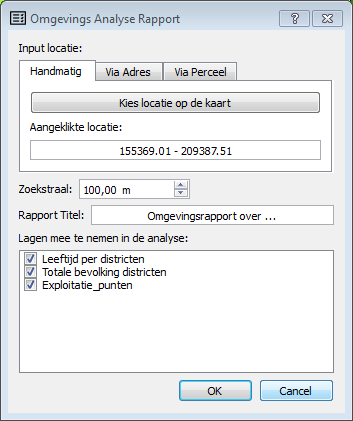
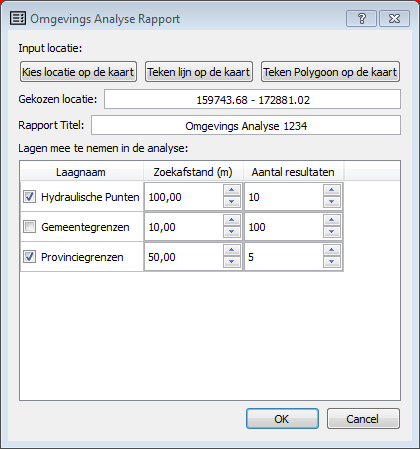
keep graphic visible, let user choose to select or not

Changed region(s): [[0.0, 0.0, 0.966, 0.9881], [0.779, 0.0, 1.0, 1.0], [0.9348, 0.4632, 0.966, 0.5558]]

diff --git a/OmgevingsAnalyseDlg.py b/OmgevingsAnalyseDlg.py
@@ -22,12 +22,12 @@
 """
 
 import os, utils, json, settings
-from threading import Timer
-from mapTool import mapTool, polyTool
+from mapTool import mapTool, polyTool, lineTool
 from qgis.core import *
 from ui_OmgevingsAnalyseDlg import Ui_OmgevingsAnalyseDlg
 from PyQt4 import QtGui, QtCore
 from rapportGenerator import rapportGenerator
+
 
 class OmgevingsAnalyseDlg(QtGui.QDialog):
     def __init__(self, parent=None, iface=None):
@@ -50,7 +50,6 @@ class OmgevingsAnalyseDlg(QtGui.QDialog):
         #props
         self.mapTool = None
         self.polyTool = None
-        self.s = None
         # data
         self.graphicsLayer = []
         self.mapLayers = []
@@ -73,15 +72,17 @@ class OmgevingsAnalyseDlg(QtGui.QDialog):
 
         # eventhandlers
         self.ui.manualLocationBtn.clicked.connect(self.manualLocationClicked)
+        self.ui.lineLocationBtn.clicked.connect(self.lineLocationClicked)
         self.ui.polyLocationBtn.clicked.connect(self.polyLocationClicked)
 
         self.iface.mapCanvas().layersChanged.connect(self.refreshLayers)
         self.accepted.connect(self.generateRapport)
+        self.rejected.connect(self._clearGraphicLayer)
 
         QgsProject.instance().readProject.connect( self.loadSettings )
         QgsProject.instance().writeProject.connect( self.saveSettings )
 
-    def _manualLocationCallback(self, point):
+    def _manualLocationCallback(self, marker, point):
         #set location an and location name
         xform = QgsCoordinateTransform( self.iface.mapCanvas().mapSettings().destinationCrs(), self.lam72)
 
@@ -91,7 +92,7 @@ class OmgevingsAnalyseDlg(QtGui.QDialog):
 
         self.ui.manualLocationTxt.setText(self.manualLocationName)
 
-        self.flashMarker(point)
+        self.flashMarker(marker)
 
         self.showNormal()
         self.activateWindow()
@@ -107,7 +108,23 @@ class OmgevingsAnalyseDlg(QtGui.QDialog):
 
         self.ui.manualLocationTxt.setText(self.manualLocationName)
 
-        self.iface.mapCanvas().scene().removeItem(rubber)
+        self.flashMarker(rubber)
+
+        self.showNormal()
+        self.activateWindow()
+        self.iface.mapCanvas().unsetMapTool(self.mapTool)
+
+    def _lineLocationCallback(self, rubber):
+        #get the location line
+        xform = QgsCoordinateTransform(self.iface.mapCanvas().mapSettings().destinationCrs(), self.lam72)
+
+        self.manualLoc_lam72 = rubber.asGeometry()
+        self.manualLoc_lam72.transform(xform)
+        self.manualLocationName = self.manualLoc_lam72.exportToWkt()
+
+        self.ui.manualLocationTxt.setText(self.manualLocationName)
+
+        self.flashMarker(rubber)
 
         self.showNormal()
         self.activateWindow()
@@ -152,7 +169,8 @@ class OmgevingsAnalyseDlg(QtGui.QDialog):
             count += 1
             if count > maxNum: break
 
-        lyr.setSelectedFeatures(ids)
+        if self.ui.selFeatsChk.isChecked():
+            lyr.setSelectedFeatures(ids)
 
     #events
     def refreshLayers(self):
@@ -199,6 +217,7 @@ class OmgevingsAnalyseDlg(QtGui.QDialog):
     def generateRapport(self):
         loc_lam72 = self.manualLoc_lam72
         title = self.manualLocationName
+        graphics = self.graphicsLayer
 
         if loc_lam72 is None: return
 
@@ -207,7 +226,7 @@ class OmgevingsAnalyseDlg(QtGui.QDialog):
                                                                if self.ui.layerTbl.item(n,0).checkState() ]
         lyrs = [ m for m in self.mapLayers if m.name() in checkedLayerNames ]
 
-        raport = rapportGenerator(self.iface, rapportTitle, title)
+        raport = rapportGenerator(self.iface, rapportTitle, title, graphics)
 
         for lyr in lyrs:
             radius = [self.ui.layerTbl.cellWidget(n, 1) for n in range(self.ui.layerTbl.rowCount() )
@@ -222,22 +241,29 @@ class OmgevingsAnalyseDlg(QtGui.QDialog):
             # find the intersecting records between loc and lyr and rec to raport
             self._findIntersectingRecords(loc, lyr, maxNum, radius, raport)
         raport.show()
+        self.graphicsLayer = []
 
     def manualLocationClicked(self):
+        self._clearGraphicLayer()
         self.mapTool = mapTool(self.iface, self._manualLocationCallback)
         self.iface.mapCanvas().setMapTool(self.mapTool)
         self.showMinimized()
 
     def polyLocationClicked(self):
+        self._clearGraphicLayer()
         self.mapTool = polyTool(self.iface, self._polyLocationCallback)
         self.iface.mapCanvas().setMapTool(self.mapTool)
         self.showMinimized()
 
-    def flashMarker(self, point, time=3):
-        """Add marker and remove it after time in sec"""
-        mkr = utils.addMarker(self.iface, point)
+    def lineLocationClicked(self):
+        self._clearGraphicLayer()
+        self.mapTool = lineTool(self.iface, self._lineLocationCallback)
+        self.iface.mapCanvas().setMapTool(self.mapTool)
+        self.showMinimized()
+
+    def flashMarker(self, mkr, time=5):
         self.graphicsLayer.append(mkr)
-        Timer(time, self._clearGraphicLayer, ()).start()
+        # Timer(time, self._clearGraphicLayer, ()).start()
 
     def loadSettings(self):
         self.s = settings.settings()

diff --git a/ui_OmgevingsAnalyseDlg.py b/ui_OmgevingsAnalyseDlg.py
@@ -2,7 +2,7 @@
 
 # Form implementation generated from reading ui file 'ui_OmgevingsAnalyseDlg.ui'
 #
-# Created: Wed Jun 08 14:45:13 2016
+# Created: Tue Oct 18 14:23:26 2016
 #      by: PyQt4 UI code generator 4.10.2
 #
 # WARNING! All changes made in this file will be lost!
@@ -26,7 +26,7 @@ except AttributeError:
 class Ui_OmgevingsAnalyseDlg(object):
     def setupUi(self, OmgevingsAnalyseDlg):
         OmgevingsAnalyseDlg.setObjectName(_fromUtf8("OmgevingsAnalyseDlg"))
-        OmgevingsAnalyseDlg.resize(422, 454)
+        OmgevingsAnalyseDlg.resize(454, 481)
         icon = QtGui.QIcon()
         icon.addPixmap(QtGui.QPixmap(_fromUtf8(":/plugins/OmgevingsAnalyse/img/icon.png")), QtGui.QIcon.Normal, QtGui.QIcon.Off)
         OmgevingsAnalyseDlg.setWindowIcon(icon)
@@ -40,6 +40,9 @@ class Ui_OmgevingsAnalyseDlg(object):
         self.manualLocationBtn = QtGui.QPushButton(OmgevingsAnalyseDlg)
         self.manualLocationBtn.setObjectName(_fromUtf8("manualLocationBtn"))
         self.horizontalLayout_4.addWidget(self.manualLocationBtn)
+        self.lineLocationBtn = QtGui.QPushButton(OmgevingsAnalyseDlg)
+        self.lineLocationBtn.setObjectName(_fromUtf8("lineLocationBtn"))
+        self.horizontalLayout_4.addWidget(self.lineLocationBtn)
         self.polyLocationBtn = QtGui.QPushButton(OmgevingsAnalyseDlg)
         self.polyLocationBtn.setObjectName(_fromUtf8("polyLocationBtn"))
         self.horizontalLayout_4.addWidget(self.polyLocationBtn)
@@ -65,6 +68,9 @@ class Ui_OmgevingsAnalyseDlg(object):
         self.rapportTitleTxt.setObjectName(_fromUtf8("rapportTitleTxt"))
         self.horizontalLayout_2.addWidget(self.rapportTitleTxt)
         self.verticalLayout.addLayout(self.horizontalLayout_2)
+        self.selFeatsChk = QtGui.QCheckBox(OmgevingsAnalyseDlg)
+        self.selFeatsChk.setObjectName(_fromUtf8("selFeatsChk"))
+        self.verticalLayout.addWidget(self.selFeatsChk)
         self.label = QtGui.QLabel(OmgevingsAnalyseDlg)
         self.label.setObjectName(_fromUtf8("label"))
         self.verticalLayout.addWidget(self.label)
@@ -96,11 +102,13 @@ class Ui_OmgevingsAnalyseDlg(object):
         OmgevingsAnalyseDlg.setWindowTitle(_translate("OmgevingsAnalyseDlg", "Omgevings Analyse Rapport", None))
         self.label_2.setText(_translate("OmgevingsAnalyseDlg", "Input locatie:", None))
         self.manualLocationBtn.setText(_translate("OmgevingsAnalyseDlg", "Kies locatie op de kaart", None))
+        self.lineLocationBtn.setText(_translate("OmgevingsAnalyseDlg", "Teken lijn op de kaart", None))
         self.polyLocationBtn.setText(_translate("OmgevingsAnalyseDlg", "Teken Polygoon op de kaart", None))
         self.label_5.setText(_translate("OmgevingsAnalyseDlg", "Gekozen locatie:", None))
         self.manualLocationTxt.setText(_translate("OmgevingsAnalyseDlg", "0 - 0", None))
         self.label_6.setText(_translate("OmgevingsAnalyseDlg", "Rapport Titel:", None))
         self.rapportTitleTxt.setText(_translate("OmgevingsAnalyseDlg", "Omgevingsrapport", None))
+        self.selFeatsChk.setText(_translate("OmgevingsAnalyseDlg", " Selecteer de gevonden features op kaart", None))
         self.label.setText(_translate("OmgevingsAnalyseDlg", "Lagen mee te nemen in de analyse:", None))
         item = self.layerTbl.horizontalHeaderItem(0)
         item.setText(_translate("OmgevingsAnalyseDlg", "Laagnaam", None))

diff --git a/mapTool.py b/mapTool.py
@@ -3,6 +3,7 @@ from PyQt4.QtCore import *
 from PyQt4.QtGui import *
 from qgis.core import *
 from qgis.gui import *
+from utils import addMarker
 
 class mapTool(QgsMapTool):
     def __init__(self, iface, callback):
@@ -13,7 +14,56 @@ class mapTool(QgsMapTool):
 
     def canvasReleaseEvent(self,e):
         point = self.toMapCoordinates(e.pos())
-        self.callback(point)
+        mkr = addMarker(self.iface, point)
+        self.callback(mkr, point)
+
+
+class lineTool(QgsMapTool):
+    def __init__(self, iface, callback):
+        QgsMapTool.__init__(self, iface.mapCanvas())
+        self.iface = iface
+        self.canvas = iface.mapCanvas()
+        self.cursor = QCursor(Qt.CrossCursor)
+        self.callback = callback
+
+        self.rubberBand = QgsRubberBand(self.canvas, False)
+        self.points = []
+        self.rubberBand.setColor(Qt.green)
+        self.rubberBand.setWidth(1.6)
+
+    def canvasMoveEvent(self, e):
+        if len(self.points) <= 1 or e.pos() is None: return
+
+        self.rubberBand.setToGeometry(QgsGeometry.fromPolyline( self.points + [self.toMapCoordinates(e.pos())] ), None)
+
+    def canvasReleaseEvent(self, event):
+        if event.button() == Qt.RightButton:
+            self.points.append(self.toMapCoordinates(event.pos()))
+            if len(self.points) <= 1: return
+
+            self.rubberBand.setToGeometry(QgsGeometry.fromPolyline( self.points ), None)
+            self.callback(self.rubberBand)
+            QgsMapTool.deactivate(self)
+        else:
+            self.points.append(self.toMapCoordinates(event.pos()))
+            if len(self.points) <= 1: return
+
+            self.rubberBand.setToGeometry(QgsGeometry.fromPolyline( self.points ), None)
+
+    def canvasDoubleClickEvent(self, event):
+        self.points.append(self.toMapCoordinates(event.pos()))
+        if len(self.points) <= 1: return
+
+        self.rubberBand.setToGeometry(QgsGeometry.fromPolyline( self.points ), None)
+        self.callback(self.rubberBand)
+        QgsMapTool.deactivate(self)
+
+    def activate(self):
+        QgsMapTool.activate(self)
+        self.canvas.setCursor(self.cursor)
+
+    def setCursor(self, cursor):
+        self.cursor = QCursor(cursor)
 
 
 class polyTool(QgsMapTool):
@@ -26,7 +76,7 @@ class polyTool(QgsMapTool):
 
         self.rubberBand = QgsRubberBand(self.canvas, False)
         self.points = []
-        self.rubberBand.setBorderColor(Qt.red)
+        self.rubberBand.setBorderColor(Qt.green)
         self.rubberBand.setWidth(1.6)
 
     def canvasMoveEvent(self, e):

diff --git a/rapportGenerator.py b/rapportGenerator.py
@@ -6,8 +6,9 @@ from PyQt4.QtGui import QDialog, QFileDialog
 from htmlInteraction import htmlInteraction, magnifyingGlass
 
 class rapportGenerator:
-    def __init__(self, iface, rapportName="", locationName=""):
+    def __init__(self, iface, rapportName="", locationName="", graphics=[]):
         self.iface = iface
+        self.graphics = graphics
         self.body = ET.Element("body")
         self.rapportName  = rapportName
         self.locationName = locationName
@@ -70,14 +71,16 @@ class rapportGenerator:
         result = dlg.exec_()
         if result:
             filename = QFileDialog.getSaveFileName(self.iface.mainWindow(),
-                                                   "Opslaan als", None, "WORD (*.DOC);;HTML (*.html)" )
+                                                "Opslaan als", None, "WORD (*.DOC);;HTML (*.html)" )
             if filename: self.save(filename)
+
+        for graphic in self.graphics:
+            self.iface.mapCanvas().scene().removeItem(graphic)
 
     def toString(self):
         return ET.tostring(self.body)
 
     def save(self, path):
-        #TODO : remove buttons
         tree = ET.ElementTree(self.body)
         tree.write( path )
 

diff --git a/utils.py b/utils.py
@@ -1,6 +1,6 @@
 #several miscellaneous reusable fucntions
 from qgis.core import QgsExpression
-from qgis.gui import QgsVertexMarker
+from qgis.gui import QgsVertexMarker, QgsRubberBand
 from PyQt4.QtGui import QColor
 
 def feat2dict( feature ):
@@ -31,3 +31,4 @@ def addMarker(iface, pnt, clr=QColor(0, 255, 0), ico=QgsVertexMarker.ICON_BOX ):
     m.setIconType(ico)
     m.setPenWidth(9)
     return m
+

diff --git a/README.md b/README.md
@@ -1,22 +1,20 @@
 Omgevings analyse tool - rapporteertool voor milieuvergunningen
 ================================================================
 
-**TODO: percelen, data ophalen achter proxy**
-
-
 Op vraag van LNE werdt een tool ontwikeld een omgevingsrapport van locatie maakt. 
 
 Ten opzichte van de verschillende vector lagen, die ingeladen zijn in het project (WFS of vectorlaag) 
 wordt een soort rapport gegenereerd wordt voor een specifieke locatie:
 
-De gebruiker kan een locatie op de kaart aanklikken of een adres of perceel selecteren. (TODO)
+De gebruiker kan een locatie op de kaart aanklikken of een polygoon intekenen. 
 
 De volgende informatie wordt weergegeven:
-- Welke afstand de geslecteerde locatie tot de dichtsbijgelegen object van de verschillende vectorlagen gelegen zijn.
+- Welke afstand de geslecteerde locatie tot de dichtsbijgelegen objecten van de verschillende vectorlagen gelegen zijn.
 - Toon de attributen van dichstbijgelegen feature
 - Knop bekijk op kaart /zoon naar in rapport.
-- De dichtbijzijnde objecten worden geselecteerd zodat ze op de kaart in de attribuuttable terug te vinden zijn.  
+- De dichtbijzijnde objecten worden geselecteerd zodat ze op de kaart in de attribuuttable terug te vinden zijn.
 - Export van rapport naar een document dat in MS Word kan geopend worden.
+- De ingestelde parameters per laag worden samen met et project opgeslagen en zijn dus opnieuw beschikbaar nadat het project werd afgesloten.  
 
 Werking
 -------
